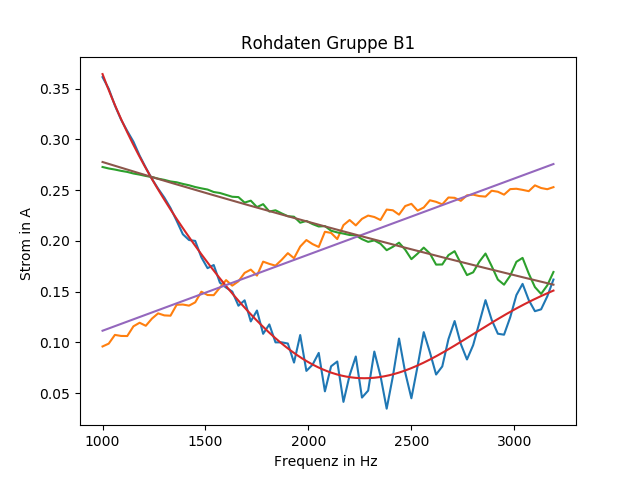
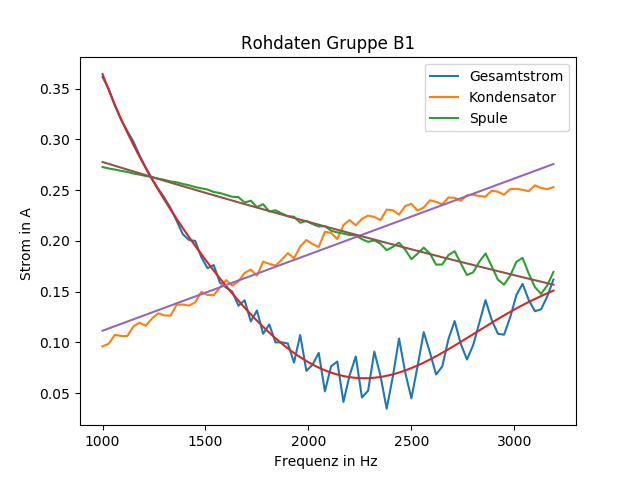
Bilder überarbeitet

Changed region(s): [[0.6562, 0.1464, 0.9062, 0.2636]]

diff --git a/grundpraktikum2/E-Lehre/Protokoll.tex b/grundpraktikum2/E-Lehre/Protokoll.tex
@@ -640,6 +640,26 @@ Die Ströme an Kondensator und Spule werden wieder mit dem Sensor-CASSY aufgezei
 Die Wechselspannungsamplitude wurde jeweils zu \SI{2}{\V} eingestellt, der Messbereich der Ströme beträgt für beide Gruppen $0-2$A.
 
 Aus den aufgezeichneten Stromverläufen als Funktion der Frequenz kann ähnlich zum vorherigen Versuch die Güte des Aufbaus bestimmt werden, wobei die Messung in beiden Gruppen für verschiedene Widerstände durchgeführt wird. Für die übrigen Bauteile verwendeten Gruppe A und  Gruppe B wieder den Kondensator mit Nominalwert \SI{4,7}{\micro \F} und die Spule mit 250 Windungen.
+Wegen Zeitknappheit wurde die Messung nur mit einem Wiederstand durchgeführt. Die genauen Daten der Bauteile sind Tabelle \ref{tab:parallel_Bauteile} zu entnehmen.
+
+\begin{table}
+\centering
+\begin{tabular}{|c|c|c|}
+\hline
+Bauteil & Gruppe A & Gruppe B\\
+\hline
+Spule[mH] & $1.275\pm 0.001\pm 0.003$ & $1.245\pm 0.001\pm 0.003$\\
+\hline
+R Spule[$\Omega$] & $0.800\pm 0.001\pm 0.002$ & $0.644\pm 0.001\pm 0.002$\\
+\hline
+Kondensator[$\mu F$] & $4.598\pm 0.001\pm 0.011$ & $4.475\pm 0.001\pm 0.011$\\
+\hline
+Wiederstand[$\Omega$] & $99.080\pm 0.001\pm 0.050$ & $\infty$ (nicht eingebaut)\\
+\hline
+\end{tabular}
+\label{tab:parallel_Bauteile}
+\caption{Verwendete Bauteile beim Serienschwingkreis.}
+\end{table}
 
 
 \subsection{Auswertung}
@@ -651,6 +671,18 @@ Aus den aufgezeichneten Stromverläufen als Funktion der Frequenz kann ähnlich 
 \label{fig:parallel_Rohdaten}
 \end{figure}
 
+Aus den aufgezeichneten Stromverlauf wird im folgenden die Resonanzfrequenz und die Güte des Schwinkreises mit ähnlichen Methoden wie beim Serienschwingkreis bestimmt. Dies geschieht über folgende Methoden:
+\begin{enumerate}
+\item Man betrcahtet den Gesamtstrom und bestimmt das Minimum und die Breite von dieser. Die Güte ist dann gemäß Gl. \ref{equ:Guete_Resonanzbreite} der Quotient aus beiden.
+
+\item Gemäß Gl. \ref{eq:Parallel_Strmhoch} lässt sich die Güte auch aus der Spannungsüberhöhung an der Resonanzfrequenz bestimmen.
+
+\item Die Resonanzfrequenz kann ebenfalls über das Maximum der Impedanz bestimmt werden.
+
+\item Zuletzt wird die Resonanzfrequenz noch über die Phasenverschiebung zwischen Strom und Spannung ermittelt.
+\end{enumerate}
+
+Es wurden für Gruppe A insgesamt drei Messreihen und für Gruppe B zwei Messreihen aufgenommen. Diese werden im folgenden mit A1,A2,A3,B1,B2 bezeichnet.\\
 Während der Durchführung wurde bei beiden Gruppen eine Periodische Schwankung in den gemessenen Strömen festgestellt. Dadurch gestaltet sich die Auswertung der Daten äußerst schwierig.\\
 Deswegen wurde versucht, an die Rohdaten Anpassungen durchzuführen, die diese Schwingung ignorieren.\\
 An den Gesamtstrom wurde wegen seiner recht komplizierten theoretischen Form ein Polynom 6. Grades, an den Kondensatorstrom eine lineare Funktion und an den Spulenstrom eine 1/x-Funktion angepasst.\\
@@ -1076,41 +1108,41 @@ Bei Gruppe B ist die Übereinstimmung von theoretischer Erwartung und Bestimmung
 	\label{fig:Serie_Spannungsueberhoehung_B_10}
 \end{figure}
 
-
+\newpage
 \subsection{Parallelschwingkreis}
-
-\begin{figure}[h]
+\subsubsection{Rohdaten}
+\begin{figure}[H]
 \centering
-\includegraphics[scale=0.5]{Bilder/Parallel_Rohdaten_2.png}
-\includegraphics[scale=0.5]{Bilder/Parallel_Rohdaten_3.png}
-\includegraphics[scale=0.5]{Bilder/Parallel_RohdatenB_2.png}
+\includegraphics[scale=0.65]{Bilder/Parallel_Rohdaten_2.png}
+\includegraphics[scale=0.65]{Bilder/Parallel_Rohdaten_3.png}
+\includegraphics[scale=0.65]{Bilder/Parallel_RohdatenB_2.png}
+\end{figure}
+\subsubsection{Impedanz}
+\begin{figure}[H]
+\centering
+\includegraphics[scale=0.69]{Bilder/Parallel_Impedanz_2.png}
+\includegraphics[scale=0.69]{Bilder/Parallel_Impedanz_3.png}
+\includegraphics[scale=0.69]{Bilder/Parallel_ImpedanzB_2.png}
+\end{figure}
+\subsubsection{Phase}
+\begin{figure}[H]
+\centering
+\includegraphics[scale=0.69]{Bilder/Parallel_Phase_2.png}
+\includegraphics[scale=0.69]{Bilder/Parallel_Phase_3.png}
+\includegraphics[scale=0.69]{Bilder/Parallel_PhaseB_2.png}
 \end{figure}
 
-\begin{figure}[h]
-\centering
-\includegraphics[scale=0.7]{Bilder/Parallel_Impedanz_2.png}
-\includegraphics[scale=0.7]{Bilder/Parallel_Impedanz_3.png}
-\includegraphics[scale=0.7]{Bilder/Parallel_ImpedanzB_2.png}
-\end{figure}
-
-\begin{figure}[h]
-\centering
-\includegraphics[scale=0.7]{Bilder/Parallel_Phase_2.png}
-\includegraphics[scale=0.7]{Bilder/Parallel_Phase_3.png}
-\includegraphics[scale=0.7]{Bilder/Parallel_PhaseB_2.png}
-\end{figure}
-
-
+\newpage
 \subsection{Hoch- und Tiefpass}
 
-\begin{figure}
+\begin{figure}[H]
 \centering
 \includegraphics[scale=0.5]{Bilder/HochTief_oben_A.png}
 \includegraphics[scale=0.5]{Bilder/HochTief_unten_A.png}
 \caption{Systematische Verschiebung für Hoch- und Tiefpass Gruppe A}
 \end{figure}
 
-\begin{figure}
+\begin{figure}[H]
 \centering
 \includegraphics[scale=0.5]{Bilder/HochTief_oben_B.png}
 \includegraphics[scale=0.5]{Bilder/HochTief_unten_B.png}
